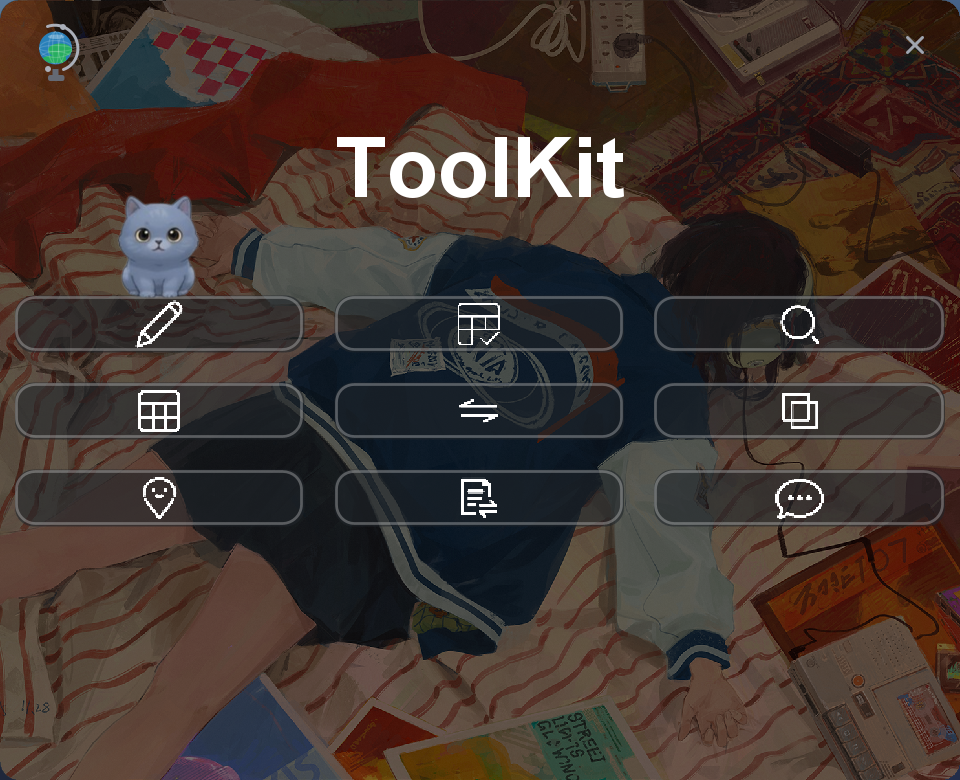
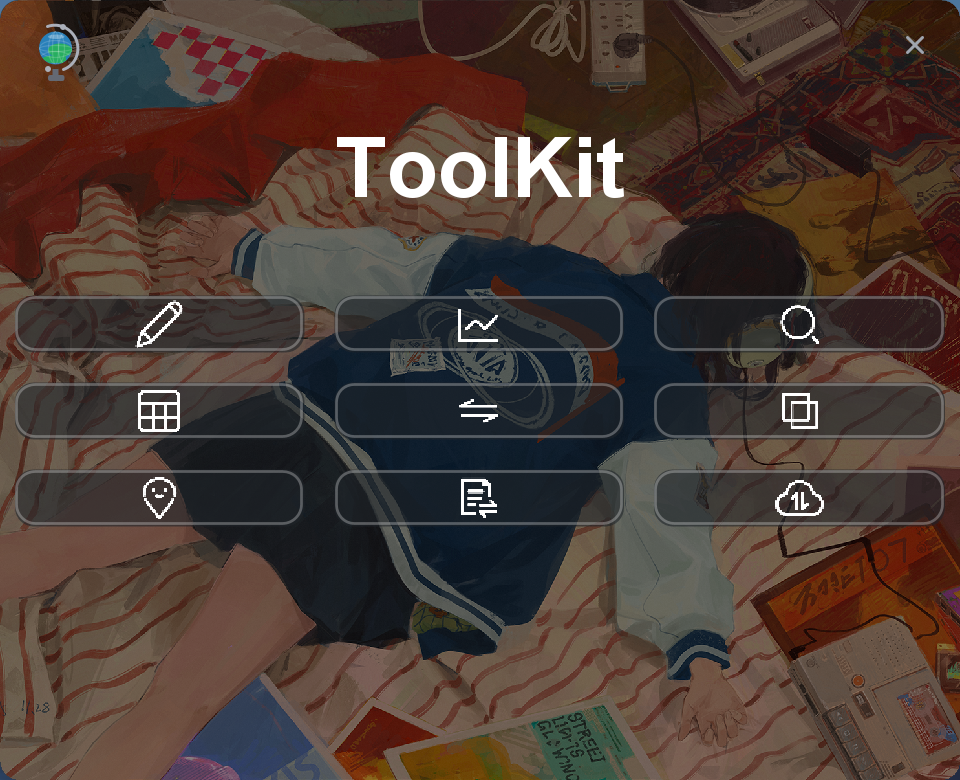
719

diff --git a/ToolKit/ToolKit.html b/ToolKit/ToolKit.html
@@ -3,8 +3,8 @@
 <head>
     <meta charset="UTF-8">
     <meta name="viewport" content="width=device-width, initial-scale=1.0, maximum-scale=1.0, user-scalable=no">
-    <title>ToolKit - 高效桌面办公 | by 土块</title>
-    <link rel="icon" href="imgs/ToolKit.ico" type="image/x-icon">
+    <title>ToolKit - 招标代理辅助软件 | by 土块</title>
+    <link rel="icon" href="imgs/toolkit.ico" type="image/x-icon">
     <style>
         :root {
             /* 根据插画背景提取的复古暖调卧室配色 */
@@ -326,6 +326,63 @@
             font-size: 1.1rem;
         }
 
+        /* 特别鸣谢样式 */
+        .special-thanks-container {
+            margin-top: 60px;
+            text-align: center;
+        }
+        .special-thanks-container h4 {
+            color: #ffffff;
+            font-size: 1.4rem;
+            margin-bottom: 30px;
+            letter-spacing: 2px;
+        }
+        .thanks-grid {
+            display: grid;
+            grid-template-columns: repeat(auto-fit, minmax(250px, 1fr));
+            gap: 15px;
+            max-width: 1000px;
+            margin: 0 auto;
+        }
+        .thanks-item {
+            background: rgba(255, 255, 255, 0.03);
+            padding: 12px 20px;
+            border-radius: 8px;
+            border: 1px solid rgba(255, 255, 255, 0.05);
+            color: var(--text-muted);
+            font-size: 0.95rem;
+            transition: all 0.3s ease;
+        }
+        .thanks-item:hover {
+            background: rgba(255, 255, 255, 0.08);
+            border-color: rgba(255, 255, 255, 0.15);
+            color: var(--text-main);
+        }
+        .thanks-item strong {
+            color: var(--accent-hover);
+            font-weight: 600;
+        }
+
+        /* MIT 许可证样式 */
+        .license-box {
+            margin-top: 60px;
+            background: rgba(20, 18, 17, 0.6);
+            padding: 30px;
+            border-radius: 12px;
+            border: 1px dashed rgba(255, 255, 255, 0.15);
+            color: var(--text-muted);
+            font-size: 0.9rem;
+            text-align: left;
+            line-height: 1.8;
+            box-shadow: inset 0 2px 10px rgba(0,0,0,0.2);
+        }
+        .license-box h4 {
+            text-align: center;
+            color: #fff;
+            margin-bottom: 20px;
+            font-size: 1.2rem;
+        }
+
         footer {
             text-align: center;
             padding: 50px 20px;
@@ -376,6 +433,7 @@
             .credits h3 { font-size: 1.4rem; }
             
             .credits-grid { grid-template-columns: 1fr; gap: 15px; }
+            .thanks-grid { grid-template-columns: 1fr; }
             
             footer { padding: 30px 15px; }
             
@@ -409,8 +467,8 @@
         </div>
 
         <div class="hero-actions">
-            <a href="https://github.com/GallantTarry/javaswing-toolkit-app/releases/download/ToolKitv1.5.0/ToolKit1.5.exe" class="btn btn-primary" download>
-                ⬇ 下载 ToolKit 1.5 (Windows)
+            <a href="https://github.com/GallantTarry/javaswing-toolkit-app/releases/download/ToolKitv1.6.0/ToolKit1.6.exe" class="btn btn-primary" download>
+                ⬇ 下载 ToolKit 1.6 (Windows)
             </a>
         </div>
     </header>
@@ -444,8 +502,8 @@
             </div>
 
             <div class="card">
-                <img src="imgs/replacerpanel.png" alt="文档转换" class="card-img">
-                <h3>🔄 文档转换</h3>
+                <img src="imgs/replacerpanel.png" alt="文档替换" class="card-img">
+                <h3>🔄 文档替换</h3>
                 <p>将需要修改的文档内容输入，然后拖入整个文件夹或单/多个文件全局内容修改。</p>
             </div>
 
@@ -468,13 +526,13 @@
             </div>
 
             <div class="card">
-                <img src="imgs/SecretChatPanel.png" alt="加密通话" class="card-img">
-                <h3>🔐 加密通话</h3>
-                <p>输入密钥可以对原文进行加密，或者同密钥对加密进行解码。</p>
+                <img src="imgs/cloudsharepanel.png" alt="极速云传" class="card-img">
+                <h3>☁ 极速云传</h3>
+                <p>支持在局域网内实现文件的高速直连传输，并提供临时内网穿透服务，轻松跨越公网共享数据。</p>
             </div>
 
             <div class="card">
-                <img src="imgs/SavePigPanel.png" alt="拯救公猪" class="card-img">
+                <img src="imgs/savepigpanel.png" alt="拯救公猪" class="card-img">
                 <h3>🎮 拯救公猪</h3>
                 <p>主页面按G呼出按E退出，为纪念一个有趣的灵魂。</p>
             </div>
@@ -486,14 +544,14 @@
             </div>
 
             <div class="card">
-                <img src="imgs/SettingsDialog.png" alt="系统设置与帮助" class="card-img">
+                <img src="imgs/settingsdialog.png" alt="系统设置与帮助" class="card-img">
                 <h3>⚙ 系统设置与帮助</h3>
                 <p>自定义主窗口关闭行为与启动尺寸，支持更改全局背景壁纸及明暗调节，并可在此灵活控制桌面小猫(MITI)的启用状态。</p>
             </div>
         </div>
 
         <div class="credits">
-            <h3>依赖与特别鸣谢</h3>
+            <h3>依赖与开源组件鸣谢</h3>
             <div class="credits-grid">
                 <div><strong>FlatLaf (3.0)</strong>：感谢 FlatLaf 提供现代化的深色毛玻璃跨平台 UI 视觉支撑。</div>
                 <div><strong>iTextPDF (5.5.13.3)</strong>：感谢 iTextPDF 提供极其稳定的动态 PDF 生成与深度操作支持。</div>
@@ -508,14 +566,39 @@
                 <div><strong>org.json (20240303)</strong>：感谢 org.json 提供极简优雅的树状节点解析，精准解构网络 API 返回数据。</div>
                 <div><strong>Maven Compiler Plugin (3.11.0)</strong>：感谢 Maven Compiler 插件保驾护航，完美锁定并顺滑编译前沿的 Java 21 代码。</div>
                 <div><strong>Maven Shade Plugin (3.5.1)</strong>：感谢 Maven Shade 超级插件完美融合错综复杂的依赖并剥离冲突签名，凝练出纯粹的独立可执行程序。</div>
+                <div><strong>Java 21 (JDK 21)</strong>：感谢 Java 21 强大的核心底座，提供最前沿的语法特性与极速性能，支撑 ToolKit v1.5 的稳定跨平台运行。</div>
+                <div><strong>UTF-8 Encoding</strong>：感谢 UTF-8 字符集标准作为项目的全局编译编码，为底层文本数据和跨平台编译提供统一的规范，消除一切乱码困扰。</div>
+                <div><strong>Apache Maven (4.0.0 Model)</strong>：感谢 Maven 构建工具体系，以严谨的生命周期和依赖管理，将散落的代码与错综复杂的组件完美融。</div>
+                <div><strong>Google ZXing (3.5.2 Core)</strong>：感谢 ZXing 二维码核心引擎，以精密的矩阵算法与卓越的容错机制，将冗长的数据链接化作方寸之间的黑白像素，在数字世界与物理设备间架设起极速交互的桥梁。</div>
             </div>
             
-            <div style="margin-top: 40px; text-align: center; color: var(--text-muted); font-size: 1rem; line-height: 1.8;">
-                <h4 style="color: #ffffff; font-size: 1.3rem; margin-bottom: 20px;">=====================特别鸣谢=====================</h4>
-                <p>感谢 Gemini 对开发提供的巨大帮助与支持！</p>
-                <p>感谢 supabase 数据库为拯救公猪游戏提供了后端数据库。</p>
-                <p>感谢 智谱Ai 为桌宠MITI提供了智慧。</p>
-                <p style="margin-top: 20px; font-weight: bold;">代码已上传至github并开源！再次感谢您的使用。</p>
+            <div class="special-thanks-container">
+                <h4>===================== 特别鸣谢 =====================</h4>
+                <div class="thanks-grid">
+                    <div class="thanks-item">感谢 <strong>Gemini</strong> 对开发提供的巨大帮助与支持。</div>
+                    <div class="thanks-item">感谢 <strong>supabase</strong> 提供了数据库。</div>
+                    <div class="thanks-item">感谢 <strong>智谱Ai</strong> 提供了Api接口。</div>
+                    <div class="thanks-item">感谢 <strong>Removebg</strong> 裁剪了阿尔法通道。</div>
+                    <div class="thanks-item">感谢 <strong>Wallhaven</strong> 提供了壁纸的使用。</div>
+                    <div class="thanks-item">感谢 <strong>Convertio</strong> 提供了图标的转换功能。</div>
+                    <div class="thanks-item">感谢 <strong>iconfont</strong> 提供了主菜单图标库源文件。</div>
+                    <div class="thanks-item">感谢 <strong>github</strong> 提供了避风港和开源发布页。</div>
+                    <div class="thanks-item">感谢 <strong>@tombcato</strong> 提供了地区数据与开发灵感。</div>
+                    <div class="thanks-item">感谢 <strong>ChatGPT</strong> 提供的额外Ai辅助。</div>
+                    <div class="thanks-item">感谢 <strong>loading.io</strong> 提供的启动闪图源文件。</div>
+                    <div class="thanks-item">感谢 <strong>诸多up主</strong> 提供的音乐文件。</div>
+                    <div class="thanks-item">感谢 <strong>唧唧down</strong> 提供的文件下载功能。</div>
+                    <div class="thanks-item">感谢 <strong>南瑞工程招标代理一部All</strong>。</div>
+                </div>
+                <p style="margin-top: 30px; font-weight: bold; color: var(--accent-hover); font-size: 1.05rem;">代码已上传至github并开源！再次感谢您的使用。</p>
+            </div>
+
+            <div class="license-box">
+                <h4>MIT 许可证</h4>
+                <p>版权所有 (c) 2026 TuKuai</p>
+                <p style="margin-top: 10px;">特此免费授予任何获得本软件及相关文档文件（以下简称“软件”）副本的人，不受限制地处理本软件的权利，包括但不限于使用、复制、修改、合并、发布、分发、再许可和/或出售本软件副本的权利，并允许向其提供本软件的人这样做，但须符合以下条件：</p>
+                <p style="margin-top: 10px;">上述版权声明和本许可声明应包含在本软件的所有副本或主要部分中。</p>
+                <p style="margin-top: 10px;">本软件按“原样”提供，没有任何形式的明示或暗示的保证，包括但不限于对适销性、特定用途适用性和非侵权性的保证。在任何情况下，无论是在合同、侵权或其他诉讼中，作者或版权持有人均不对因本软件或本软件的使用或其他交易而产生、引起或与之相关的任何索赔、损害或其他责任负责。</p>
             </div>
         </div>
     </div>

diff --git a/index.html b/index.html
@@ -600,7 +600,7 @@
                         <div
                             class="glass-card p-5 md:p-6 flex items-center justify-between group hover:bg-white/10 transition-all">
                             <div class="flex flex-col space-y-2">
-                                <span class="text-gray-100 font-bold text-sm">2. ToolKit1.5</span>
+                                <span class="text-gray-100 font-bold text-sm">2. ToolKit1.6</span>
                                 <span class="text-[9px] md:text-[10px] text-gray-400">招标代理部门办公辅助应用</span>
                             </div>
                             <a href="ToolKit/ToolKit.html"
